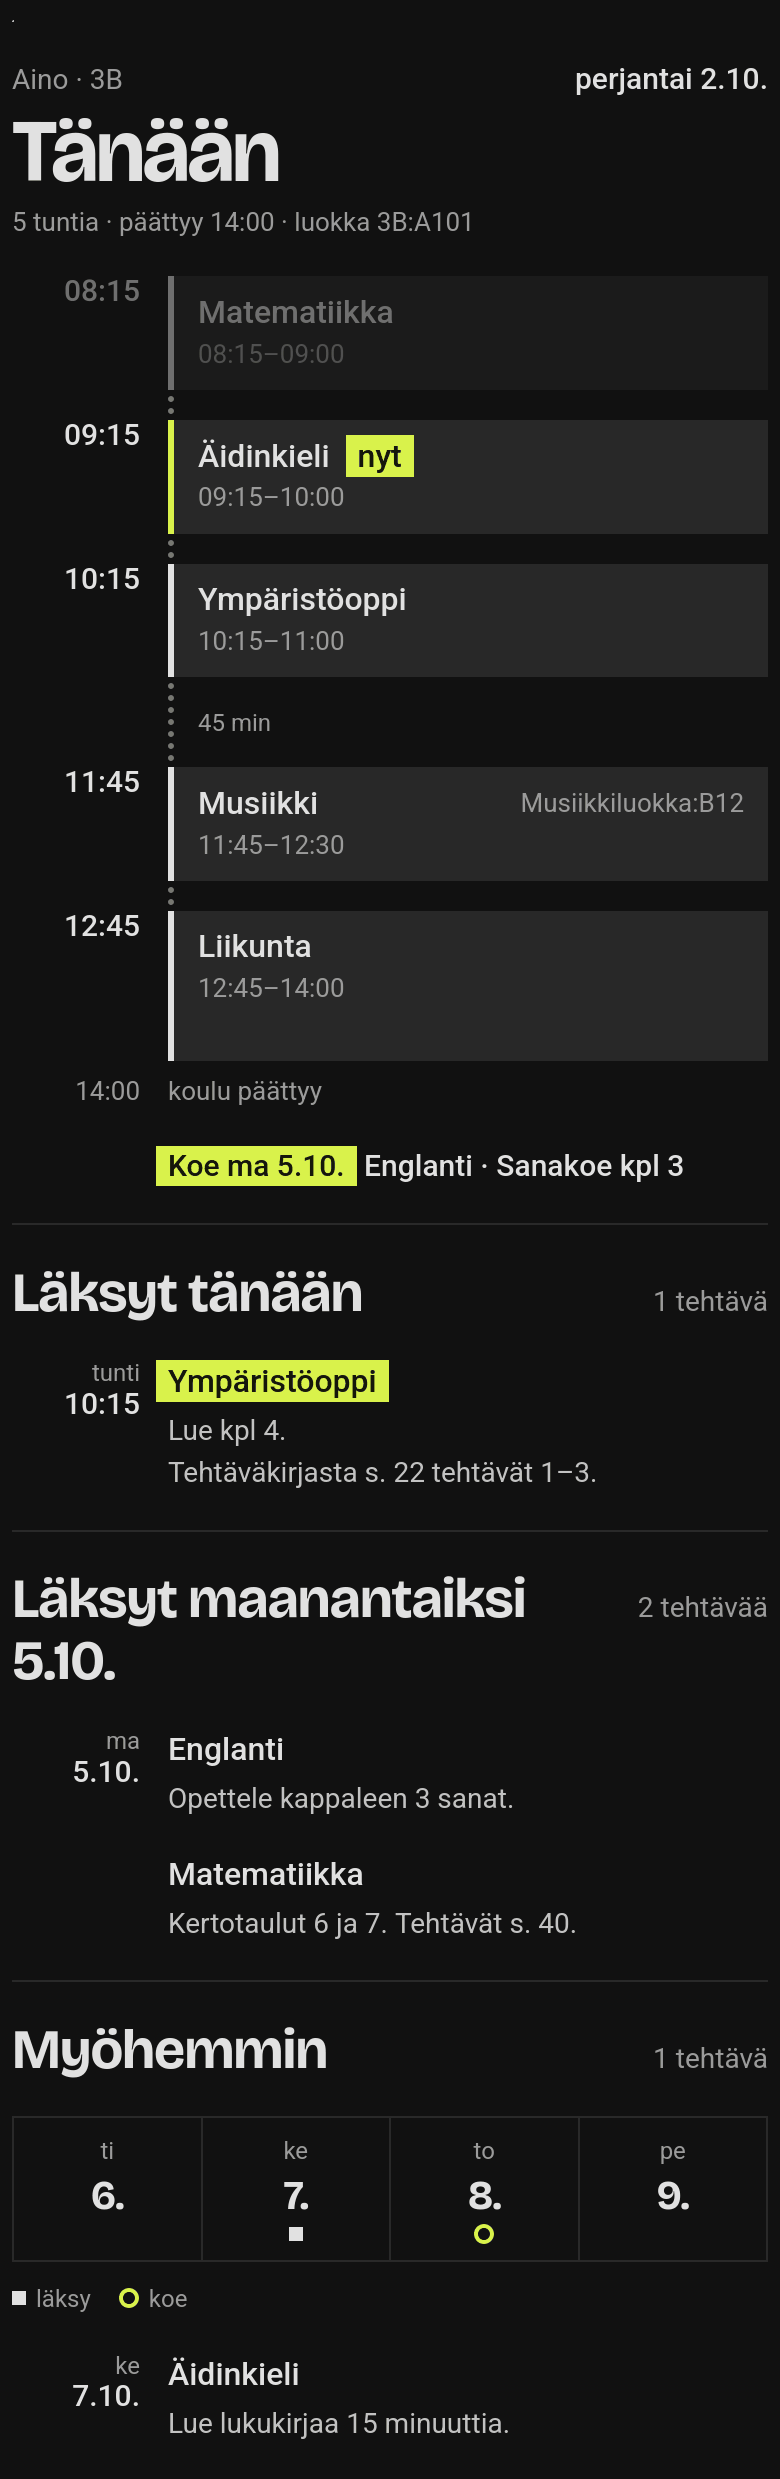
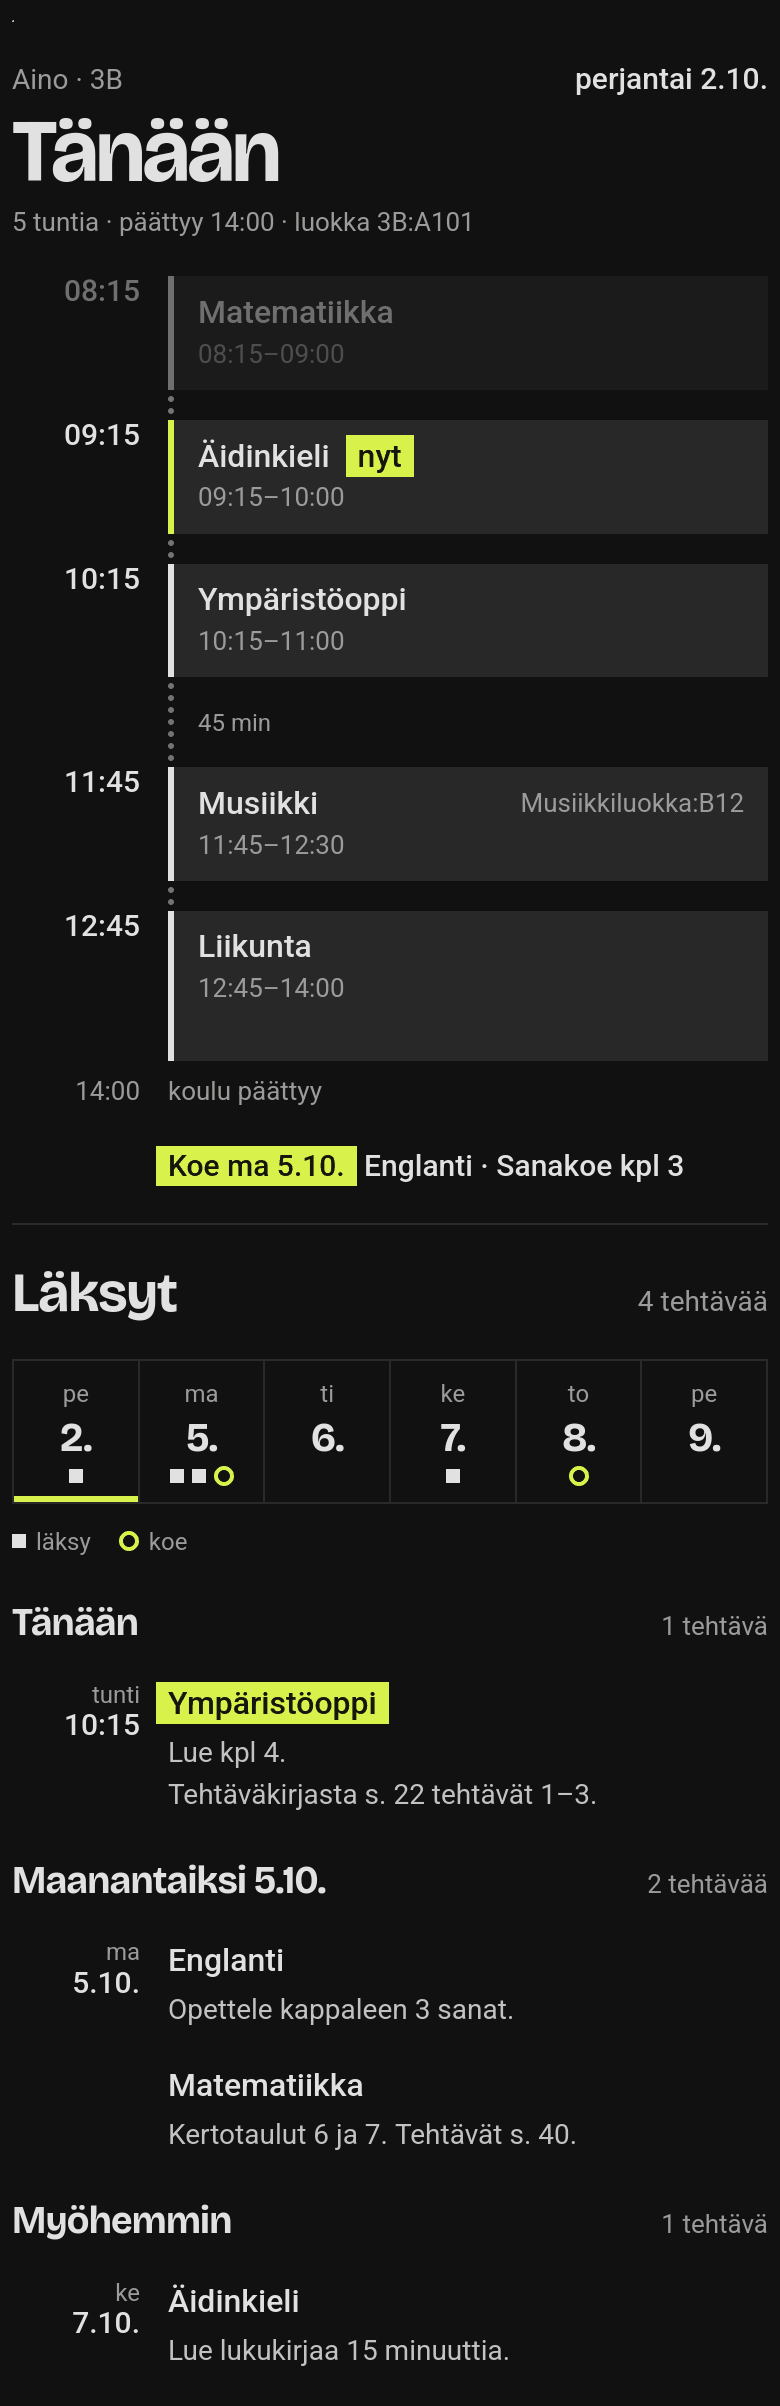
1.0.3: one homework section with the week strip on top
The week strip sits right under the heading and starts from the school
day on show, today or the next one. Today, the next school day and later
homework follow as groups.

diff --git a/dist/wilma-card.js b/dist/wilma-card.js
@@ -15,7 +15,7 @@
  * ks. test/model.test.mjs.
  */
 
-const VERSION = '1.0.2';
+const VERSION = '1.0.3';
 
 // Oppiaineet: [koodin alku tai sana nimessä, nimi]. Myöhempi osuma voittaa.
 const KOODIT = [
@@ -287,19 +287,24 @@ function wilmaModel(s, nyt, asetukset = {}) {
   laksyt.muut.sort((a, b) => (a.era ? iso(a.era) : '9999').localeCompare(b.era ? iso(b.era) : '9999'));
   for (const l of laksyt.muut) l.milloin = l.era ? milloin(l.era) : 'päivä ei tiedossa';
 
-  // Viikkorivi: seuraavan koulupäivän jälkeiset koulupäivät, läksyjen ja kokeiden määrä.
+  /*
+   * Viikkorivi: näytettävä koulupäivä (kuluva tai seuraava) ja sitä seuraavat koulupäivät,
+   * läksyjen ja kokeiden määrä. Rivi jää pois, jos näille päiville ei ole kumpaakaan.
+   */
   const viikkorivi = [];
-  if (laksyt.muut.length) {
-    for (let i = 1; i < 15 && viikkorivi.length < VIIKKORIVIN_PAIVAT; i++) {
-      const d = lisaa(seur || tanaan, i);
-      if (!viikko.some((t) => t[0] === isoVp(d))) continue;
-      viikkorivi.push({
-        pv: PV[vp(d)], pvm: `${d.getDate()}.`,
-        laksyja: laksyt.muut.filter((l) => sama(l.era, d)).length,
-        kokeita: kokeet.filter((k) => sama(k.paiva, d)).length,
-      });
-    }
+  const kaikkiLaksyt = [...laksyt.tanaan, ...laksyt.seur, ...laksyt.muut];
+  const rivinAlku = kesken ? tanaan : seur;
+  for (let i = 0, myohempia = 0; rivinAlku && i < 15 && myohempia < VIIKKORIVIN_PAIVAT; i++) {
+    const d = lisaa(rivinAlku, i);
+    if (i > 0 && !viikko.some((t) => t[0] === isoVp(d))) continue;
+    if (!seur || d > seur) myohempia++;
+    viikkorivi.push({
+      pv: PV[vp(d)], pvm: `${d.getDate()}.`, nyt: sama(d, tanaan),
+      laksyja: kaikkiLaksyt.filter((l) => l.era && sama(l.era, d)).length,
+      kokeita: kokeet.filter((k) => sama(k.paiva, d)).length,
+    });
   }
+  if (!viikkorivi.some((d) => d.laksyja || d.kokeita)) viikkorivi.length = 0;
 
   /* Huomiot. Kentät " · "-erotettuna, ensimmäinen on päivä tai aikaleima. */
   const raja = iso(lisaa(tanaan, -TUOREET_PV));
@@ -447,7 +452,7 @@ function wilmaModel(s, nyt, asetukset = {}) {
     paiva: paivanakyma,
     koeHalytykset,
     laksyt,
-    seurOtsikko: seur ? (sama(seur, lisaa(tanaan, 1)) ? 'huomiseksi' : `${PV_KSI[vp(seur)]} ${seur.getDate()}.${seur.getMonth() + 1}.`) : '',
+    seurOtsikko: seur ? (sama(seur, lisaa(tanaan, 1)) ? 'Huomiseksi' : `${PV_KSI[vp(seur)][0].toUpperCase()}${PV_KSI[vp(seur)].slice(1)} ${seur.getDate()}.${seur.getMonth() + 1}.`) : '',
     seurPaivays: seur ? lyhyt(seur) : '',
     viikkorivi,
     kokeet: { lahella, myohemmin },
@@ -507,6 +512,9 @@ ha-card { background: none; border: none; box-shadow: none; padding: 6px 8px 16p
 h2 { margin: 0; font-size: 28px; line-height: 1.1; }
 .otsikko { display: flex; justify-content: space-between; align-items: baseline; gap: 8px; border-top: 1px solid var(--divider-color); padding-top: 18px; }
 .otsikko span { font-size: 14px; white-space: nowrap; }
+h3 { margin: 0; font-size: 19px; line-height: 1.1; }
+.alaotsikko { display: flex; justify-content: space-between; align-items: baseline; gap: 8px; padding-top: 4px; }
+.alaotsikko span { font-size: 13px; white-space: nowrap; }
 .lista { display: flex; flex-direction: column; gap: 16px; }
 .lista.tiivis { gap: 14px; }
 
@@ -521,6 +529,7 @@ h2 { margin: 0; font-size: 28px; line-height: 1.1; }
 .viikko { display: grid; border-right: 1px solid var(--divider-color); border-top: 1px solid var(--divider-color); border-bottom: 1px solid var(--divider-color); }
 .viikko > div { display: flex; flex-direction: column; align-items: center; gap: 4px; padding: 8px 0; border-left: 1px solid var(--divider-color); }
 .viikko small { font-size: 12px; }
+.viikko > div.nyt { box-shadow: inset 0 -3px 0 var(--w-hl); }
 .viikko b { font-size: 20px; line-height: 1; }
 .merkit { display: flex; gap: 4px; align-items: center; height: 10px; }
 .nelio { width: 7px; height: 7px; background: var(--primary-text-color); }
@@ -591,23 +600,28 @@ function piirra(m, nimi, ui = {}) {
     h.push(`<div class="kisko koe-halytys"><div></div><div><span class="hl">Koe ${esc(k.milloin)}</span> ${esc(k.aine)}${k.kuvaus ? ` · ${esc(k.kuvaus)}` : ''}</div></div>`);
   }
 
-  /* Läksyt */
+  /* Läksyt: viikkorivi heti otsikon alla, sitten tänään, seuraava koulupäivä ja myöhemmin. */
+  const laksyja = m.laksyt.tanaan.length + m.laksyt.seur.length + m.laksyt.muut.length;
+  const ala = (otsikko, n) => `<div class="alaotsikko"><h3 class="disp">${esc(otsikko)}</h3><span class="sec">${n ? monikko(n, 'tehtävä', 'tehtävää') : ''}</span></div>`;
+  if (laksyja || m.seur) {
+    h.push(osio('Läksyt', laksyja ? monikko(laksyja, 'tehtävä', 'tehtävää') : ''));
+    if (m.viikkorivi.length) {
+      h.push(`<div class="viikko" style="grid-template-columns: repeat(${m.viikkorivi.length}, minmax(0, 1fr))">${m.viikkorivi.map((d) => `<div${d.nyt ? ' class="nyt"' : ''}><small class="sec">${d.pv}</small><b class="disp">${d.pvm}</b><div class="merkit">${'<span class="nelio"></span>'.repeat(d.laksyja)}${'<span class="rengas"></span>'.repeat(d.kokeita)}</div></div>`).join('')}</div>
+        <div class="selite sec"><span><span class="nelio"></span> läksy</span><span><span class="rengas"></span> koe</span></div>`);
+    }
+  }
   if (m.laksyt.tanaan.length) {
-    h.push(osio('Läksyt tänään', monikko(m.laksyt.tanaan.length, 'tehtävä', 'tehtävää')));
+    h.push(ala('Tänään', m.laksyt.tanaan.length));
     h.push(`<div class="lista">${m.laksyt.tanaan.map((l) => laksy(l, `<div class="era"><small class="sec">tunti</small><b class="num">${esc(l.tunti)}</b></div>`, true)).join('')}</div>`);
   }
   if (m.seur) {
-    h.push(osio(`Läksyt ${m.seurOtsikko}`, m.laksyt.seur.length ? monikko(m.laksyt.seur.length, 'tehtävä', 'tehtävää') : ''));
+    h.push(ala(m.seurOtsikko, m.laksyt.seur.length));
     h.push(m.laksyt.seur.length
       ? `<div class="lista">${m.laksyt.seur.map((l, i) => laksy(l, i === 0 ? era(m.seur) : '<div></div>', !m.laksyt.tanaan.length)).join('')}</div>`
       : '<div class="kisko"><div></div><div class="tyhja sec">Ei läksyjä.</div></div>');
   }
   if (m.laksyt.muut.length) {
-    h.push(osio('Myöhemmin', monikko(m.laksyt.muut.length, 'tehtävä', 'tehtävää')));
-    if (m.viikkorivi.length) {
-      h.push(`<div class="viikko" style="grid-template-columns: repeat(${m.viikkorivi.length}, minmax(0, 1fr))">${m.viikkorivi.map((d) => `<div><small class="sec">${d.pv}</small><b class="disp">${d.pvm}</b><div class="merkit">${'<span class="nelio"></span>'.repeat(d.laksyja)}${'<span class="rengas"></span>'.repeat(d.kokeita)}</div></div>`).join('')}</div>
-        <div class="selite sec"><span><span class="nelio"></span> läksy</span><span><span class="rengas"></span> koe</span></div>`);
-    }
+    h.push(ala('Myöhemmin', m.laksyt.muut.length));
     let edellinen = null;
     h.push(`<div class="lista">${m.laksyt.muut.map((l) => {
       const uusi = !(edellinen && l.era && sama(edellinen, l.era));

diff --git a/README.md b/README.md
@@ -115,9 +115,11 @@ Osio käyttää integraation [Tubbs10/ha-wilma](https://github.com/Tubbs10/ha-wi
 
 - **Koulupäivä.** Koulupäivän aikana kuluva päivä, sen jälkeen seuraava koulupäivä.
   Tunnit ovat kestonsa korkuisia ja tauot näkyvät niiden väleinä. Käynnissä oleva tunti on merkitty.
-- **Läksyt tänään.** Näkyy siihen asti, kun aineen tunti alkaa.
-- **Läksyt huomiseksi** ja **myöhemmin.** Palautuspäivä on aineen seuraava tunti.
-  Viikkorivillä neliö on läksy ja rengas koe.
+- **Läksyt.** Otsikon alla viikkorivi: kuluva tai seuraava koulupäivä ja sitä seuraavat
+  koulupäivät, neliö on läksy ja rengas koe. Sen alla läksyt kolmessa ryhmässä:
+  - **Tänään.** Näkyy siihen asti, kun aineen tunti alkaa.
+  - **Huomiseksi** (tai seuraavaksi koulupäiväksi) ja **Myöhemmin.** Palautuspäivä on
+    aineen seuraava tunti.
 - **Kokeet** kahden viikon sisällä ja päivät niihin.
 - **Huomiot.** Lukemattomat Wilma-viestit, selvitettävät tuntimerkinnät, huomautukset ja
   tiedotteet. Osio näkyy, kun siinä on sisältöä.
